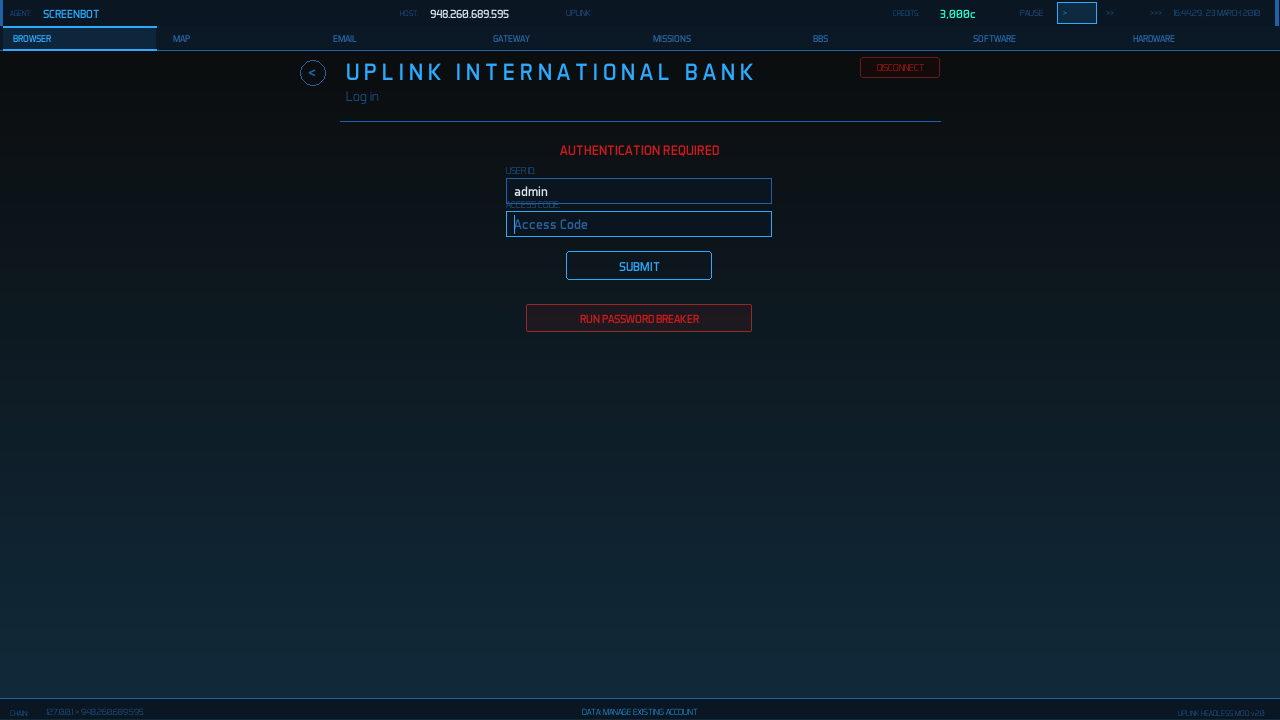
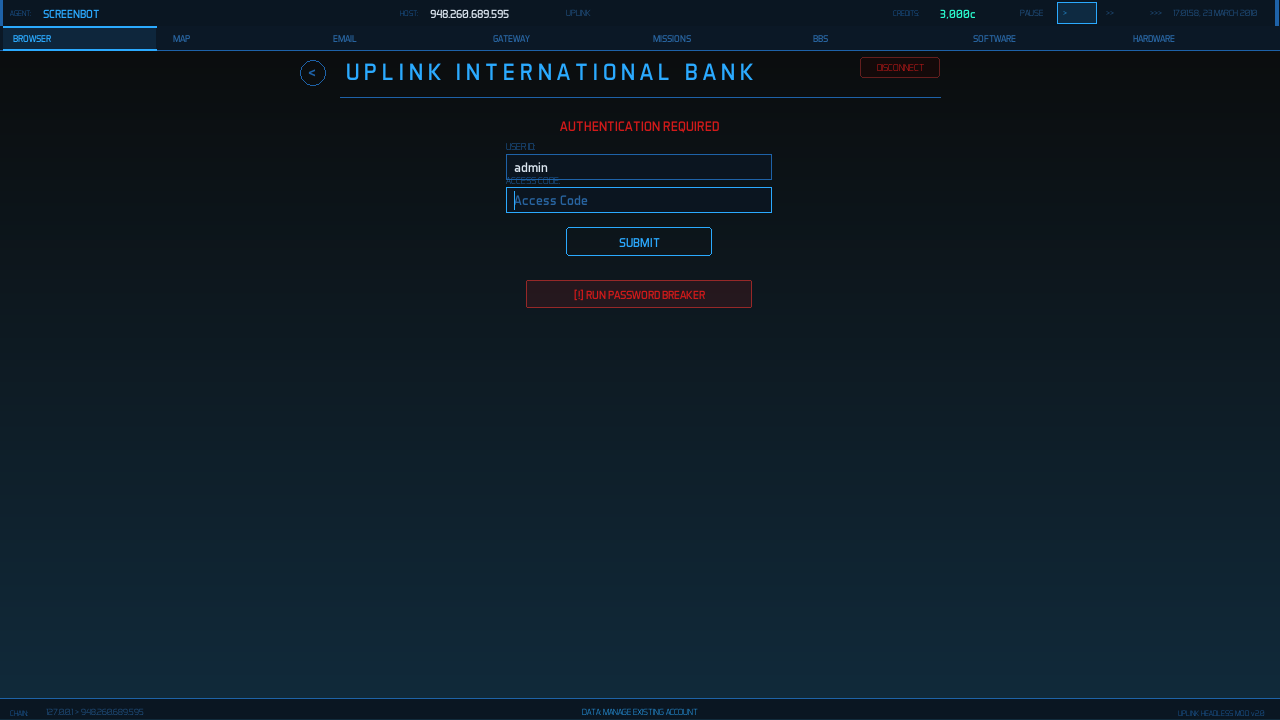
Round 22: triangle glow fix, column spacing, console prompt, login bars
- Fix triangle pointer glow symmetry on menu items
- File server column spacing adjusted for SIZE/ENCRYPTION/COMPRESSION
- Software sales column widths rebalanced
- Console prompt updated to root@uplink:/#
- Bank dialog header polished
- Login screen: decorative side bars added
- Updated all screenshots

diff --git a/client/ui/browser.py b/client/ui/browser.py
@@ -480,10 +480,11 @@ class BrowserView:
                     (rect.x + scale.w(26), rect.y + rect.h // 2)
                 ]
                 pygame.draw.polygon(surface, PRIMARY, pts)
-                # Outer glow for triangle
-                for j in range(3):
-                    pygame.draw.polygon(surface, (*PRIMARY, 50-j*15), 
-                                        [(p[0]-j, p[1]-j if i==0 else (p[1]+j if i==1 else p[1])) for i,p in enumerate(pts)], 1)
+                # Outer glow for triangle (symmetric)
+                for j in range(1, 4):
+                    pygame.draw.polygon(surface, (*PRIMARY, 60 - j * 15), 
+                                        [(p[0] - j, p[1] - j if i == 0 else (p[1] + j if i == 1 else p[1] + j//2)) 
+                                         for i, p in enumerate(pts)], 1)
             else:
                 # Thin pointer
                 pts = [
@@ -495,8 +496,8 @@ class BrowserView:
 
             txt = f_btn.render(opt["caption"], True, TEXT_WHITE if hovered else PRIMARY)
             surface.blit(txt, (rect.x + scale.w(42), rect.y + (rect.h - txt.get_height()) // 2))
+
     def _draw_highsecurity(self, surface, scale, state, cy):
-        """Render HighSecurityScreen as security challenge panels."""
         f_title = get_font(scale.fs(22))
         f_label = get_font(scale.fs(16), light=True)
         f_btn = get_font(scale.fs(18))
@@ -617,8 +618,8 @@ class BrowserView:
             pygame.draw.rect(surface, PRIMARY, (lock_x, lock_y - 2, scale.w(12), scale.h(10)), border_radius=1)
             pygame.draw.arc(surface, PRIMARY, (lock_x + 2, lock_y - 8, scale.w(8), scale.h(12)), 0, 3.14, 2)
             
-            f_sec = get_font(scale.fs(13))
-            txt = f_sec.render("SECURE BANKING INTERFACE [RSA 4096-BIT ENCRYPTION ACTIVE]", True, PRIMARY)
+            f_sec = get_font(scale.fs(12), light=True)
+            txt = f_sec.render("SECURE BANKING INTERFACE - ENCRYPTION: [RSA 4096-BIT / ACTIVE]", True, PRIMARY)
             surface.blit(txt, (lock_x + 25, strip_r.centery - txt.get_height() // 2))
             cy += 42
         else:
@@ -1181,12 +1182,12 @@ class BrowserView:
         f_output = get_font(scale.fs(15), light=True)
 
         # Console prompt prefix
-        prompt_prefix = "usr@uplink:~# "
+        prompt_prefix = "root@uplink:/# "
         for b in state.buttons:
             if b.get("name", "") == "console_typehere":
                 cap = b.get("caption", "").strip()
                 if cap and cap.endswith(">"):
-                    prompt_prefix = cap + " "
+                    prompt_prefix = "REMOTE_ACCESS@SYSTEM:~# "
 
         # Terminal header bar
         header_rect = scale.rect(SCR_X + 10, cy - 2, SCR_W - 20, 24)
@@ -1541,7 +1542,7 @@ class BrowserView:
         pygame.draw.rect(surface, SECONDARY, head_rect, 1, border_radius=2)
 
         # Column headers
-        headers = [("FILENAME", 25), ("SIZE", 480), ("SECURITY", 590), ("COMPRESSION", 750)]
+        headers = [("FILENAME", 25), ("SIZE", 420), ("ENCRYPTION", 560), ("COMPRESSION", 720)]
         for h, hx in headers:
             txt = f_header.render(h, True, PRIMARY)
             surface.blit(txt, (scale.x(SCR_X + hx), head_rect.y + (head_rect.h - txt.get_height()) // 2))
@@ -1570,28 +1571,28 @@ class BrowserView:
             color = TEXT_WHITE if hovered else TEXT_DIM
             
             # Filename
-            txt = f_row.render(f["title"][:45].upper(), True, color)
+            txt = f_row.render(f["title"][:40].upper(), True, color)
             surface.blit(txt, (row_rect.x + 15, row_rect.y + (row_rect.h - txt.get_height()) // 2))
             
             # Size
             txt = f_row.render(f"{f['size']} GQ", True, TEXT_WHITE if hovered else TEXT_DIM)
-            surface.blit(txt, (scale.x(SCR_X + 480), row_rect.y + (row_rect.h - txt.get_height()) // 2))
+            surface.blit(txt, (scale.x(SCR_X + 420), row_rect.y + (row_rect.h - txt.get_height()) // 2))
             
             # Encrypted
             if f.get("encrypted"):
-                txt = f_row.render("LV " + str(f["encrypted"]), True, ALERT)
-                surface.blit(txt, (scale.x(SCR_X + 590), row_rect.y + (row_rect.h - txt.get_height()) // 2))
+                txt = f_row.render("LEVEL " + str(f["encrypted"]), True, ALERT)
+                surface.blit(txt, (scale.x(SCR_X + 560), row_rect.y + (row_rect.h - txt.get_height()) // 2))
             else:
                 txt = f_row.render("NONE", True, (60, 80, 100))
-                surface.blit(txt, (scale.x(SCR_X + 590), row_rect.y + (row_rect.h - txt.get_height()) // 2))
+                surface.blit(txt, (scale.x(SCR_X + 560), row_rect.y + (row_rect.h - txt.get_height()) // 2))
                 
             # Compressed
             if f.get("compressed"):
-                txt = f_row.render("LV " + str(f["compressed"]), True, SUCCESS)
-                surface.blit(txt, (scale.x(SCR_X + 750), row_rect.y + (row_rect.h - txt.get_height()) // 2))
+                txt = f_row.render("LEVEL " + str(f["compressed"]), True, SUCCESS)
+                surface.blit(txt, (scale.x(SCR_X + 720), row_rect.y + (row_rect.h - txt.get_height()) // 2))
             else:
                 txt = f_row.render("NONE", True, (60, 80, 100))
-                surface.blit(txt, (scale.x(SCR_X + 750), row_rect.y + (row_rect.h - txt.get_height()) // 2))
+                surface.blit(txt, (scale.x(SCR_X + 720), row_rect.y + (row_rect.h - txt.get_height()) // 2))
 
         # Scroll indicator
         if len(files) > max_vis:

diff --git a/client/ui/content_tabs.py b/client/ui/content_tabs.py
@@ -1012,8 +1012,8 @@ class SoftwareView:
             _draw_empty_state(surface, scale, cy, "No software available.")
             return
 
-        columns = [("Title", SCR_X + 35), ("Version", SCR_X + 725),
-                   ("Size", SCR_X + 875), ("Cost", SCR_X + 1025), ("", SCR_X + SCR_W - 120)]
+        columns = [("Title", SCR_X + 35), ("Version", SCR_X + 680),
+                   ("Size", SCR_X + 830), ("Cost", SCR_X + 980), ("", SCR_X + SCR_W - 120)]
         cy = _draw_header_row(surface, scale, cy, columns)
 
         f_row = get_font(scale.fs(15), light=True)
@@ -1033,15 +1033,15 @@ class SoftwareView:
             surface.blit(txt, (scale.x(SCR_X + 35), scale.y(y + 7)))
 
             txt = f_row.render(f"v{sw.get('version', 1)}", True, SECONDARY)
-            surface.blit(txt, (scale.x(SCR_X + 725), scale.y(y + 7)))
+            surface.blit(txt, (scale.x(SCR_X + 680), scale.y(y + 7)))
 
             txt = f_row.render(f"{sw.get('size', 0)} GQ", True, TEXT_DIM)
-            surface.blit(txt, (scale.x(SCR_X + 875), scale.y(y + 7)))
+            surface.blit(txt, (scale.x(SCR_X + 830), scale.y(y + 7)))
 
             cost = sw.get("cost", 0)
             affordable = state.balance >= cost
             txt = f_row.render(f"${cost:,}", True, SUCCESS if affordable else ALERT)
-            surface.blit(txt, (scale.x(SCR_X + 1025), scale.y(y + 7)))
+            surface.blit(txt, (scale.x(SCR_X + 980), scale.y(y + 7)))
 
             _draw_button(surface, scale, SCR_X + SCR_W - 120, y + 3, 100, 22, "BUY", mouse, enabled=affordable)
 

diff --git a/client/ui/login_screen.py b/client/ui/login_screen.py
@@ -48,6 +48,12 @@ class LoginScreen:
         for i in range(12):
             y = scale.y(180 + i * 80)
             pygame.draw.line(surface, (15, 25, 35), (0, y), (scale.win_w, y), 1)
+        
+        # Additional techy side-bars
+        pygame.draw.rect(surface, (20, 30, 45), (0, 0, scale.w(15), scale.win_h))
+        pygame.draw.rect(surface, (20, 30, 45), (scale.win_w - scale.w(15), 0, scale.w(15), scale.win_h))
+        pygame.draw.line(surface, SECONDARY, (scale.w(15), 0), (scale.w(15), scale.win_h), 1)
+        pygame.draw.line(surface, SECONDARY, (scale.win_w - scale.w(15), 0), (scale.win_w - scale.w(15), scale.win_h), 1)
 
         # Panel
         self.panel.draw(surface, scale)
